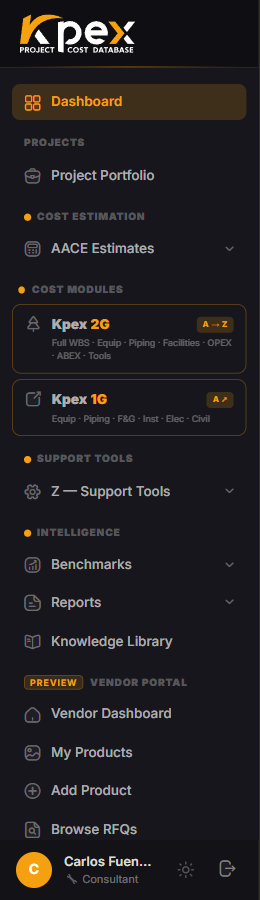
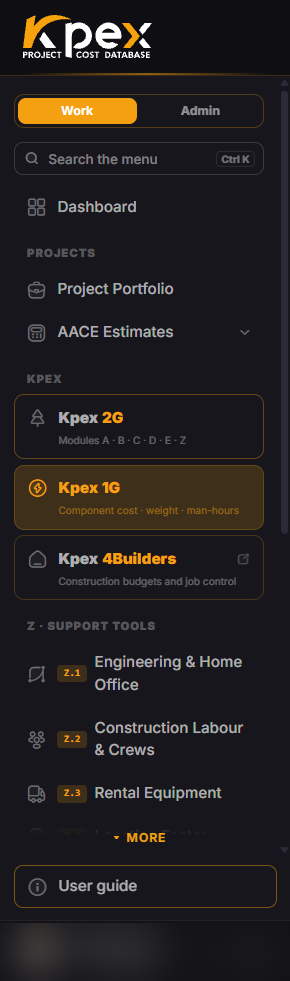
1.2: video overview Kpex 2G como intro + seccion 1G vs 2G con capturas (menu nuevo, 1G, 2G); revert URL 8.1 al apex caf-corporation.com

diff --git a/courses/kpex-user-course/es/1.2-la-plataforma-de-un-vistazo.md b/courses/kpex-user-course/es/1.2-la-plataforma-de-un-vistazo.md
@@ -5,6 +5,10 @@ duration: 6 min
 video: video/es/1.2.md
 ---
 
+<!-- kpex-intro:start -->
+<figure class="kpex-vid kpex-intro"><video controls preload="none" playsinline controlslist="nodownload" oncontextmenu="return false" poster="/wp-content/uploads/kpex-videos/Kpex_2G.jpg"><source src="/wp-content/uploads/kpex-videos/Kpex_2G.mp4" type="video/mp4"><track kind="subtitles" srclang="en" label="English" src="/wp-content/uploads/kpex-videos/Kpex_2G_EN.vtt"><track kind="subtitles" srclang="es" label="Español" src="/wp-content/uploads/kpex-videos/Kpex_2G_ES.vtt" default></video><figcaption><strong>Kpex 2G · Capital Cost Intelligence</strong> · 2:02</figcaption></figure>
+<!-- kpex-intro:end -->
+
 ## En esta lección
 
 - Las cinco capas de Kpex y qué hay en cada una.
@@ -33,6 +37,20 @@ Piensa en Kpex como una cadena:
 3. **Cost Estimation** lo **organiza** en un estimado con su clase AACE y su WBS.
 4. **Intelligence** lo **compara** contra la historia y lo **reporta**.
 5. **Kpex Exchange** lo **reemplaza** por precios reales de proveedores cuando el proyecto madura.
+
+## Kpex 1G y Kpex 2G
+
+En **Cost Modules** abres uno de dos entornos, y lo que puedes abrir depende de tu plan:
+
+- **Kpex 1G** — un estimador rápido de componentes. Abre el **Módulo A** (componentes de planta) más las herramientas **Z.4 Location Factor** y **Z.5 Kpex Cost Index**; los demás módulos aparecen bloqueados. Basta cuando solo necesitas el costo, el peso y las horas-hombre de un componente, sin el entorno completo.
+- **Kpex 2G** — la plataforma completa. Abre **los seis módulos, de la A a la Z** (plan Professional en adelante): componentes, benchmarks, facilities, OPEX, ABEX y las herramientas de soporte.
+
+![Kpex 1G — Módulo A activo, el resto bloqueado](../screenshots/1.2-kpex-1g.png)
+
+![Kpex 2G — los seis módulos activos](../screenshots/1.2-kpex-2g.png)
+
+Lado a lado, el modelo de acceso se entiende de un vistazo: **1G es una vista de consulta; 2G es todo.**
+
 
 <!-- kpex-videos:start -->
 ## Míralo en Kpex

diff --git a/courses/kpex-user-course/en/1.2-the-platform-at-a-glance.md b/courses/kpex-user-course/en/1.2-the-platform-at-a-glance.md
@@ -5,6 +5,10 @@ duration: 6 min
 video: video/en/1.2.md
 ---
 
+<!-- kpex-intro:start -->
+<figure class="kpex-vid kpex-intro"><video controls preload="none" playsinline controlslist="nodownload" oncontextmenu="return false" poster="/wp-content/uploads/kpex-videos/Kpex_2G.jpg"><source src="/wp-content/uploads/kpex-videos/Kpex_2G.mp4" type="video/mp4"><track kind="subtitles" srclang="en" label="English" src="/wp-content/uploads/kpex-videos/Kpex_2G_EN.vtt" default><track kind="subtitles" srclang="es" label="Español" src="/wp-content/uploads/kpex-videos/Kpex_2G_ES.vtt"></video><figcaption><strong>Kpex 2G · Capital Cost Intelligence</strong> · 2:02</figcaption></figure>
+<!-- kpex-intro:end -->
+
 ## In this lesson
 
 - Kpex's five layers and what each one contains.
@@ -33,6 +37,20 @@ Think of Kpex as a chain:
 3. **Cost Estimation** **organises** it into an estimate with its AACE class and WBS.
 4. **Intelligence** **compares** it against history and **reports** it.
 5. **Kpex Exchange** **replaces** it with real vendor prices as the project matures.
+
+## Kpex 1G vs Kpex 2G
+
+Under **Cost Modules** you open one of two environments, and what you can open depends on your plan:
+
+- **Kpex 1G** — a quick component estimator. It opens **Module A** (process plant components) plus the **Z.4 Location Factor** and **Z.5 Kpex Cost Index** tools; the other modules show locked. It is enough when all you need is a component's cost, weight and man-hours, without the full platform.
+- **Kpex 2G** — the complete platform. It opens **all six modules, A to Z** (Professional tier and up): components, benchmarks, facilities, OPEX, ABEX and the support tools.
+
+![Kpex 1G — Module A active, the rest locked](../screenshots/1.2-kpex-1g.png)
+
+![Kpex 2G — all six modules active](../screenshots/1.2-kpex-2g.png)
+
+Side by side, the access model reads at a glance: **1G is a consultation view; 2G is everything.**
+
 
 
 

diff --git a/courses/kpex-user-course/es/8.1-soporte-y-proximos-pasos.md b/courses/kpex-user-course/es/8.1-soporte-y-proximos-pasos.md
@@ -22,7 +22,7 @@ Llegados a este punto conoces las cinco capas de Kpex: sabes crear un estimado c
 | **Soporte general** | support@caf-corporation.com | Acceso a la cuenta, preguntas sobre funciones, facturación |
 | **Preguntas de metodología** | methodology@caf-corporation.com | Alineación AACE/PMI, consultas técnicas sobre el LFI o el Cost Index |
 | **Sitio web de la plataforma** | caf-corporation.com/kpex | Información del producto, precios, blog |
-| **Knowledge Library** | kpex.caf-corporation.com/knowledge | Guías dentro de la plataforma, documentos de referencia AACE, plantillas |
+| **Knowledge Library** | caf-corporation.com/knowledge | Guías dentro de la plataforma, documentos de referencia AACE, plantillas |
 | **Alianzas estratégicas** | partnerships@caf-corporation.com | Cuentas Enterprise/Corporate, acuerdos de Data Partner, alianzas |
 
 Un consejo práctico: cuando escribas a **methodology@**, incluye la clase AACE, el país del proyecto y el mes base del estimado. Son los datos que el equipo técnico necesita para reproducir tu número.

diff --git a/courses/kpex-user-course/en/8.1-support-and-next-steps.md b/courses/kpex-user-course/en/8.1-support-and-next-steps.md
@@ -22,7 +22,7 @@ By now you know all five layers of Kpex: you can create an estimate with its AAC
 | **General support** | support@caf-corporation.com | Account access, feature questions, billing |
 | **Methodology questions** | methodology@caf-corporation.com | AACE/PMI alignment, LFI and Cost Index technical queries |
 | **Platform website** | caf-corporation.com/kpex | Product information, pricing, blog |
-| **Knowledge Library** | kpex.caf-corporation.com/knowledge | In-platform guides, AACE reference documents, templates |
+| **Knowledge Library** | caf-corporation.com/knowledge | In-platform guides, AACE reference documents, templates |
 | **Strategic partnerships** | partnerships@caf-corporation.com | Enterprise/Corporate accounts, Data Partner agreements, alliance discussions |
 
 A practical tip: when you write to **methodology@**, include the AACE class, the project country and the estimate's base month. That's what the technical team needs to reproduce your number.
